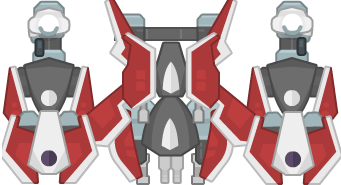
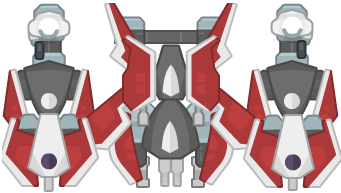
Add boss damage status 1

diff --git a/js/main.js b/js/main.js
@@ -52,6 +52,7 @@ MainState.prototype = {
     game.load.image('spaceBuilding', 'assets/enemies/spaceBuilding_014.png');
     game.load.image('spaceStation', 'assets/enemies/spaceStation_021.png');
     game.load.image('boss', 'assets/enemies/boss.png');
+    game.load.image('boss1', 'assets/enemies/boss1.png');
 
     //Enemy bullet images
     game.load.image('spaceMissile', 'assets/bullets/spaceMissiles_004.png');
@@ -59,6 +60,7 @@ MainState.prototype = {
     game.load.image('laserGreen16','assets/bullets/laserGreen16.png');
     game.load.image('laserBlue02', 'assets/bullets/laserBlue02.png');
     game.load.image('laserRed08', 'assets/bullets/laserRed08.png');
+    game.load.image('laserRed04', 'assets/bullets/laserRed04.png');
     game.load.image('spaceMissiles_009', 'assets/bullets/spaceMissiles_009.png');
 
     game.load.spritesheet('explosion', 'assets/explosion.png', 128, 128);
@@ -169,7 +171,10 @@ MainState.prototype = {
     boss.collideWorldBounds = true;
     boss.exists = false;
     boss.maxHealth = 1000;
+    boss.damageCondition = 0;
     boss.weapons = [];
+    boss.weapons.push(new bossSingle(game));
+    boss.weapons.push(new bossDouble(game));
     boss.weapons.push(new bossCircle(game));
     boss.weapons.push(new bossMissile(game));
     boss.allBullets = [];
@@ -283,6 +288,27 @@ MainState.prototype = {
     game.physics.arcade.overlap(player, enemyBulletGroups, this.hitPlayer, null, this);
     game.physics.arcade.overlap(player, powerUp, this.powerUpWeapon, null, this);
     if (boss.exists) {
+      if (boss.damageCondition == 0) {
+        boss.weapons[0].enabled = true;
+        boss.weapons[1].enabled = true;
+      }
+      //console.log(boss.health);
+      if (boss.health <= boss.maxHealth * 0.75 && boss.damageCondition == 0) {
+        explosions.display(boss.body.x + 48, boss.body.y + 160);
+        explosions.display(boss.body.x + 294, boss.body.y + 160);
+        boss.loadTexture('boss1');
+        boss.weapons[0].enabled = false;
+        boss.weapons[1].enabled = true;
+        boss.weapons[2].enabled = true;
+        boss.weapons[3].enabled = true;
+        boss.damageCondition = 1;
+        boss.heal(boss.maxHealth * 0.25);
+      }
+
+      if (boss.health <= boss.maxHealth * 0.5 && boss.damageCondition == 1) {
+        boss.damageCondition = 2;
+      }
+
       game.physics.arcade.overlap(boss, weapons[currentWeapon].weapon.bullets, this.damageEnemy, null, this);
       game.physics.arcade.overlap(player, boss.allBullets, this.hitPlayer, null, this);
       for (var i = 0; i < boss.weapons.length; i++) {

diff --git a/js/weapon.js b/js/weapon.js
@@ -10,7 +10,7 @@ var ScatterBullet = function (game, sprite) {
   this.weapon.trackSprite(sprite, 0, -sprite.height - 10);
   this.weapon.multiFire = true;
 
-  this.powerLevel = 1;
+  this.powerLevel = 3;
   this.weapon.bullets.setAll('damage', 0.25);
   this.weapon.bullets.setAll('alpha', 0.5);
 
@@ -260,6 +260,55 @@ RandomSplash.prototype.shoot = function(sprite) {
   this.weapon.fire();
 }
 
+var bossSingle = function(game){
+  this.weapon = game.add.weapon(100, 'laserRed04');
+
+  this.game = game;
+  this.weapon.bulletKillType = Phaser.Weapon.KILL_WORLD_BOUNDS;
+  this.weapon.bulletSpeed = 250;
+  this.weapon.bulletAngleOffset = 90;
+  this.weapon.fireRate = 150;
+  this.weapon.multiFire = true;
+  this.weapon.fireAngle = 90;
+  this.currentTime = 0;
+  this.enabled = false;
+
+  return this;
+}
+
+bossSingle.prototype.shoot = function(sprite) {
+  if (!this.enabled) {
+    return;
+  }
+  this.weapon.trackSprite(sprite);
+  this.weapon.fire(null, null, null, -121, 106);
+  this.weapon.fire(null, null, null, 121, 106);
+}
+
+var bossDouble = function(game){
+  this.weapon = game.add.weapon(50, 'star');
+
+  this.game = game;
+  this.weapon.bulletKillType = Phaser.Weapon.KILL_WORLD_BOUNDS;
+  this.weapon.bulletSpeed = 250;
+  this.weapon.fireRate = 500;
+  this.weapon.multiFire = true;
+  this.weapon.fireAngle = 90;
+  this.currentTime = 0;
+  this.enabled = false;
+
+  return this;
+}
+
+bossDouble.prototype.shoot = function(sprite) {
+  if (!this.enabled) {
+    return;
+  }
+  this.weapon.trackSprite(sprite);
+  this.weapon.fire(null, null, null, -15, 95);
+  this.weapon.fire(null, null, null, 15, 95);
+}
+
 var bossCircle = function(game){
   this.weapon = game.add.weapon(100, 'spaceParts_079');
 
@@ -269,11 +318,15 @@ var bossCircle = function(game){
   this.weapon.fireRate = 50;
   this.weapon.multiFire = true;
   this.currentTime = 0;
+  this.enabled = false;
 
   return this;
 }
 
 bossCircle.prototype.shoot = function(sprite) {
+  if (!this.enabled) {
+    return;
+  }
   this.weapon.trackSprite(sprite);
   if (this.game.time.totalElapsedSeconds() - this.currentTime >= 1) {
     for (var j = 0; j < 24; j++) {
@@ -294,11 +347,15 @@ var bossMissile = function(game){
   this.weapon.fireRate = 500;
   this.weapon.multiFire = true;
   this.currentTime = 0;
+  this.enabled = false;
 
   return this;
 }
 
 bossMissile.prototype.shoot = function(sprite) {
+  if (!this.enabled) {
+    return;
+  }
   this.weapon.trackSprite(sprite);
   var playerX = player.body.x;
   var playerY = player.body.y;

diff --git a/js/gameover.js b/js/gameover.js
@@ -13,7 +13,7 @@ var OverState = {
     gameOverText.alpha = 0;
     var showOver = game.add.tween(gameOverText).to({alpha: 1}, 2000, null ,false , 2000 , 1).start();
 
-    var retryText = game.add.text(100, game.world.centerY, 'Press the R to restart or Q to quit', { font: '28px Arial', fill: '#ffffff' });
+    var retryText = game.add.text(100, game.world.centerY, 'Press R to restart or Q to quit', { font: '28px Arial', fill: '#ffffff' });
     retryText.alpha = 0;
     var showRetry = game.add.tween(retryText).to({alpha: 1}, 1500, null ,false , 2500 , 10).start();
     var restartKey = game.input.keyboard.addKey(Phaser.Keyboard.R);
